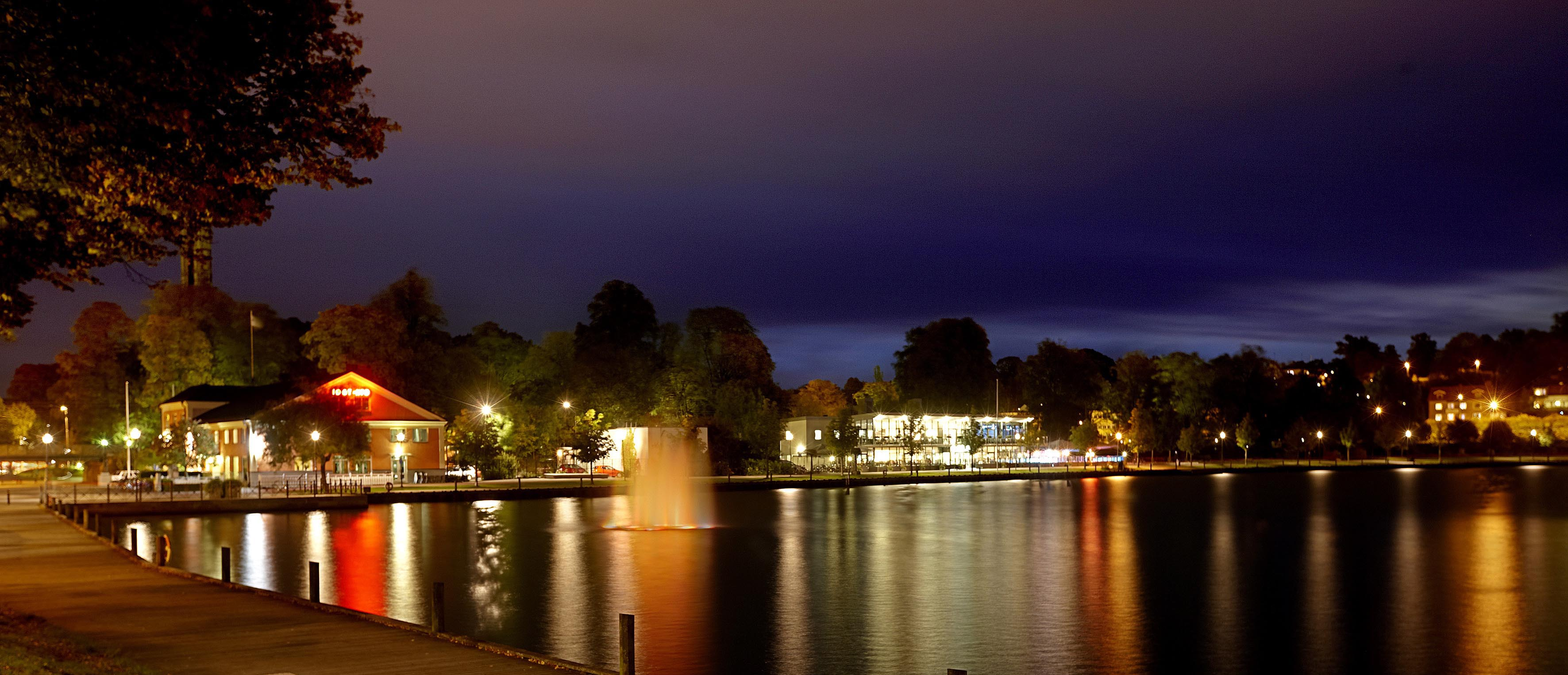
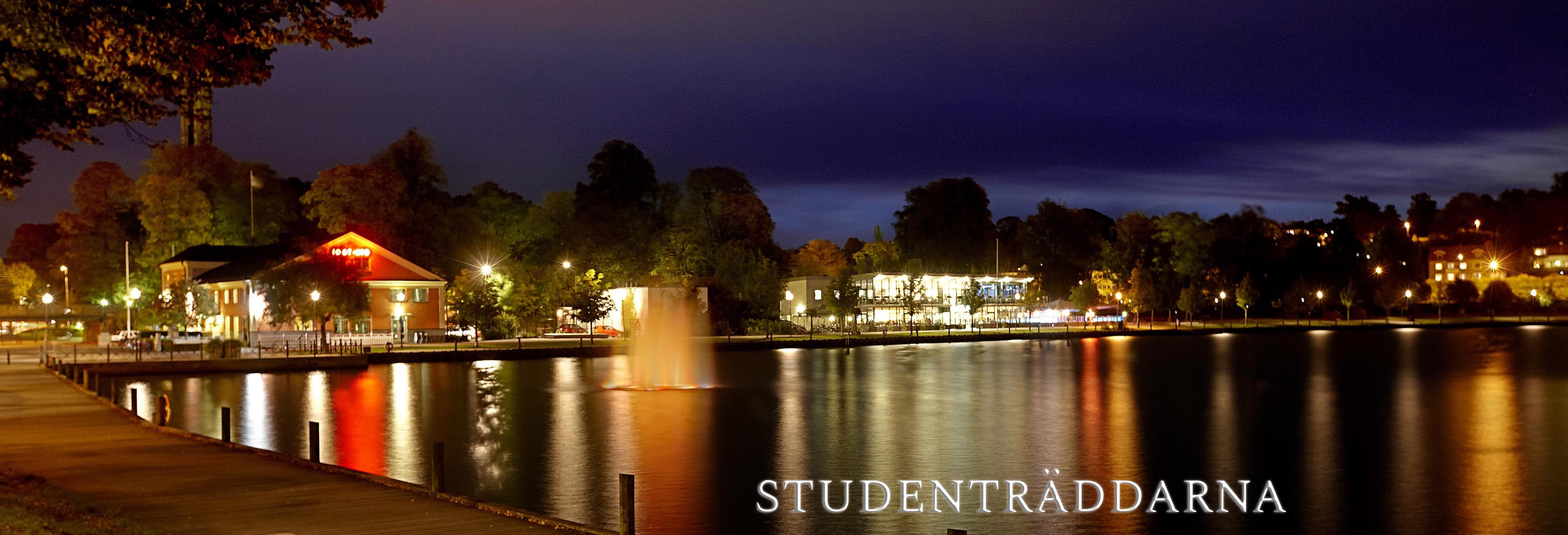
.

diff --git a/app/css/styles.css b/app/css/styles.css
@@ -1,1 +1,1 @@
-
+@import url("https://fonts.googleapis.com/css?family=Barlow|Indie+Flower|Spectral+SC");@import url("https://maxcdn.bootstrapcdn.com/font-awesome/4.7.0/css/font-awesome.min.css");html{font-family:sans-serif;-ms-text-size-adjust:100%;-webkit-text-size-adjust:100%}body{margin:0}article,aside,details,figcaption,figure,footer,header,hgroup,main,menu,nav,section,summary{display:block}audio,canvas,progress,video{display:inline-block;vertical-align:baseline}audio:not([controls]){display:none;height:0}[hidden],template{display:none}a{background-color:transparent}a:active,a:hover{outline:0}abbr[title]{border-bottom:1px dotted}b,strong{font-weight:bold}dfn{font-style:italic}h1{font-size:2em;margin:.67em 0}mark{background:#ff0;color:#000}small{font-size:80%}sub,sup{font-size:75%;line-height:0;position:relative;vertical-align:baseline}sup{top:-.5em}sub{bottom:-.25em}img{border:0}svg:not(:root){overflow:hidden}figure{margin:1em 40px}hr{box-sizing:content-box;height:0}pre{overflow:auto}code,kbd,pre,samp{font-family:monospace, monospace;font-size:1em}button,input,optgroup,select,textarea{color:inherit;font:inherit;margin:0}button{overflow:visible}button,select{text-transform:none}button,html input[type="button"],input[type="reset"],input[type="submit"]{-webkit-appearance:button;cursor:pointer}button[disabled],html input[disabled]{cursor:default}button::-moz-focus-inner,input::-moz-focus-inner{border:0;padding:0}input{line-height:normal}input[type="checkbox"],input[type="radio"]{box-sizing:border-box;padding:0}input[type="number"]::-webkit-inner-spin-button,input[type="number"]::-webkit-outer-spin-button{height:auto}input[type="search"]{-webkit-appearance:textfield}input[type="search"]::-webkit-search-cancel-button,input[type="search"]::-webkit-search-decoration{-webkit-appearance:none}fieldset{border:1px solid #c0c0c0;margin:0 2px;padding:.35em .625em .75em}legend{border:0;padding:0}textarea{overflow:auto}optgroup{font-weight:bold}table{border-collapse:collapse;border-spacing:0}td,th{padding:0}.form button{background:#B6D7B9;color:#fff;font-family:"Spectral SC",serif;box-shadow:5px 5px 10px #000;width:250px;height:80px;border-radius:2em;border-style:none;margin-top:1em}html{box-sizing:border-box}*,*:before,*:after{box-sizing:inherit}body{color:#000;background:#EFECCA;font-family:"Barlow",sans-serif;font-weight:400;font-size:20pt}body a:link{text-decoration:none}img{width:100%;height:auto}h1{color:#000;font-family:"Indie Flower",cursive;font-weight:400;font-size:30pt;text-align:center}@media (min-width: 40em){h1{font-size:50pt}}h2{font-family:"Spectral SC",serif;font-weight:600;font-size:20pt}@media (min-width: 40em){h2{font-size:40pt}}.cite .sentence{font-family:"Indie Flower",cursive;font-weight:400;font-size:30pt}.cite .person{text-align:right}.cite .person:before{content:"- "}ul{list-style:none;padding:0}a{color:#F78E69}*{list-style:none;text-decoration:none}body{margin:0 auto;max-width:100%;background-color:#efecca;color:black}body header{background:url("../img/växjö.jpg") no-repeat;background-size:cover;width:100%;height:50vh;margin-bottom:0px}body nav{width:100%;font-size:0.7em;background:#102542}body nav .triggs{display:none;position:absolute}body nav label{position:relative;cursor:pointer;font-size:150%;color:white}body nav ul{display:none;margin-left:10px;margin-top:0px;padding-bottom:20px}body nav ul li{color:white;margin-top:20px}body nav ul a{color:white}body nav .triggs:checked ~ ul,body nav .main_nav .triggs:checked ~ ul ul{display:block !important}body nav a:hover{color:#efecca}body .sec{display:flex;flex-direction:column;align-items:center;max-width:70%;margin:0 auto}body .h1top{order:-1}body .abouttext{order:1}body .imggrid{order:2;display:grid;grid-template-columns:1fr;grid-template-rows:1fr}body img{grid-row:1/2;grid-column:1/2}body .topimg{align-self:center;margin:0 auto;z-index:1;width:70%;height:auto}body .bottomimg{width:100%;height:auto}body .citat{order:3;font-style:italic}@media (min-width: 62em){body header{height:80vh}body nav{margin-top:0px;width:100%}body nav .navlabel{display:none}body nav ul{display:grid;grid-template-columns:1fr 1fr 1fr 1fr 1fr 1fr 1fr 1fr 1fr 1fr;grid-template-rows:1fr;grid-gap:0px}body nav li:nth-child(1){grid-column:1/2;grid-row:1/2}body nav li:nth-child(2){grid-column:2/4;grid-row:1/2}body nav li:nth-child(3){grid-column:4/5;grid-row:1/2}body nav li:nth-child(4){grid-column:8/9;grid-row:1/2}body nav li:nth-child(5){grid-column:9/11;grid-row:1/2}body .imggrid{order:1}body .abouttext{order:2}body .citat{visibility:hidden}}footer{padding-top:1em}footer .footer-top{width:100%;height:0;padding-left:50%;padding-bottom:10%;overflow:hidden}footer .footer-top:after{content:"";display:block;width:0;height:0;margin-left:-1000px;border-left:1000px solid transparent;border-right:1000px solid transparent;border-bottom:200px solid #102542}footer .base{background:#102542;color:#fff;text-align:center}footer .base h2{margin:0}footer .base p{margin:0}footer .base ul{margin-top:2em;display:grid;grid-row-gap:1em;grid-template:1fr 1fr / 1fr 1fr}@media (min-width: 62em){footer .base ul{grid-template:1fr/1fr repeat(4, 200px) 1fr}footer .base ul li:nth-child(1){grid-column:2 / 3}footer .base ul li:nth-child(2){grid-column:3 / 4}footer .base ul li:nth-child(3){grid-column:4 / 5}footer .base ul li:nth-child(4){grid-column:5 / 6}}footer .base .fa{padding:0.2em;font-size:3em}@media (min-width: 40em){footer .base .fa{padding:0.5em}}.form{padding-top:1em;background:#EFECCA;border:5px solid #fff;text-align:center}.form input[type="text"]{width:250px;padding:0.3em;margin:0.3em;border-radius:0.5em;border-style:none;border:1px solid grey}@media (min-width: 62em){.form{border:none;background:url("../images/filterimg.jpg")}.form input[type="text"]{width:350px}}#register .register-top img,#register .register-top p{display:none}@media (min-width: 62em){#register .register-top{width:80vw;margin:0 auto 2em}#register .register-top img{display:inline-block;margin-right:1em;width:600px;float:left}#register .register-top h1{text-align:left}#register .register-top p{display:inline}}#register form{display:grid;justify-items:center;grid-template:repeat(4, 1fr) 2fr/1fr}#register form #firstname{grid-row:1 / 2;grid-column:1 / 2}#register form #lastname{grid-row:2 / 3;grid-column:1 / 2}#register form #telephone{grid-row:3 / 4;grid-column:1 / 2}#register form #email{grid-row:4 / 5;grid-column:1 / 2}#register form button{grid-row:5 / 7;grid-column:1 / 2}@media (min-width: 62em){#register form{grid-template:1fr 1fr 2fr/1fr repeat(2, 400px) 1fr}#register form #firstname{grid-row:1 / 2;grid-column:2 / 3}#register form #lastname{grid-row:1 / 2;grid-column:3 / 4}#register form #telephone{grid-row:2 / 3;grid-column:2 / 3}#register form #email{grid-row:2 / 3;grid-column:3 / 4}#register form button{grid-row:3 / 4;grid-column:2 / 4}}#register .cite-collection{display:none}@media (min-width: 62em){#register .cite-collection{display:grid;grid-template:repeat(2, 1fr) 1.5fr/1fr 1fr}#register .cite-collection .cite{text-align:center}#register .cite-collection .cite:nth-child(1){grid-row:2 / 3;grid-column:1 / 2;justify-self:right;width:400px}#register .cite-collection .cite:nth-child(2){grid-row:1 / 3;grid-column:2 / 3;justify-self:left;width:500px}#register .cite-collection .cite:nth-child(3){grid-row:3 / 4;grid-column:1 / 3;justify-self:center;width:900px}}.introduction{display:flex;flex-direction:column;align-items:center;color:black;margin:0 36px}.introduction .info{text-align:center}.introduction .more-info{display:none}.introduction img{filter:sepia(50%)}@media (min-width: 62em){.introduction{display:grid;grid-template-columns:1fr 1fr;grid-gap:16px;max-width:45em;margin:0 auto}.introduction h1{grid-row:1;grid-column:2;margin:0}.introduction .info{grid-row:2;grid-column:2;text-align:left;font-size:25px;margin:0}.introduction .more-info{grid-row:3;grid-column:2;display:block;font-size:25px;margin:0}.introduction img{grid-row:1/4;grid-column:1}}.offers{text-align:center}.offers .rent-card{display:grid;grid-template-rows:1fr 1fr;text-align:center;margin-bottom:15%}.offers .rent-card img{grid-row:1/3;grid-column:1}.offers .rent-card h2{grid-row:2;grid-column:1;color:white;align-self:flex-end;margin:0}

diff --git a/app/about.html b/app/about.html
@@ -66,6 +66,47 @@
     </section>
 
 
+    <!--
+        FOOTER
+    -->
+    <footer>
+        <!-- The roof of the footer -->
+        <div class="footer-top"></div>
+
+        <!-- The footer content -->
+        <div class="base">
+            <h2>Studenträddarna</h2>
+
+            <!-- Contact -->
+            <div class="contact">
+                <p class="mejl">studentraddarna@live.se</p>
+                <p class="telephone">0470-123 567</p>
+            </div>
+
+            <!-- Navigation -->
+            <ul class="navigation">
+                <li>
+                    <a href="">Lediga bostäder</a>
+                </li>
+                <li>
+                    <a href="">Registrering</a>
+                </li>
+                <li>
+                    <a href="">Om oss</a>
+                </li>
+                <li>
+                    <a href="">Mina sidor</a>
+                </li>
+            </ul>
+
+            <!-- Social links -->
+            <div class="social">
+                <span class="fa fa-facebook-square"></span>
+                <span class="fa fa-twitter"></span>
+                <span class="fa fa-instagram"></span>
+            </div>
+        </div>
+    </footer>
 </body>
 
 </html>

diff --git a/app/scss/modules/_about.scss b/app/scss/modules/_about.scss
@@ -24,7 +24,7 @@ body
 
     nav {
         width: 100%;
-        font-size: 1em;
+        font-size: 0.7em;
         background: #102542;
         .triggs {
           display: none;
@@ -63,6 +63,8 @@ body
 {display: flex;
 flex-direction: column;
 align-items: center;
+max-width:70%;
+margin: 0 auto;
 }
 
 .h1top
@@ -109,9 +111,10 @@ height: auto;}
 
     
 
-    max-width:70%;
-
     
+
+    header
+    { height: 80vh;}
 
 
 nav { margin-top: 0px;
